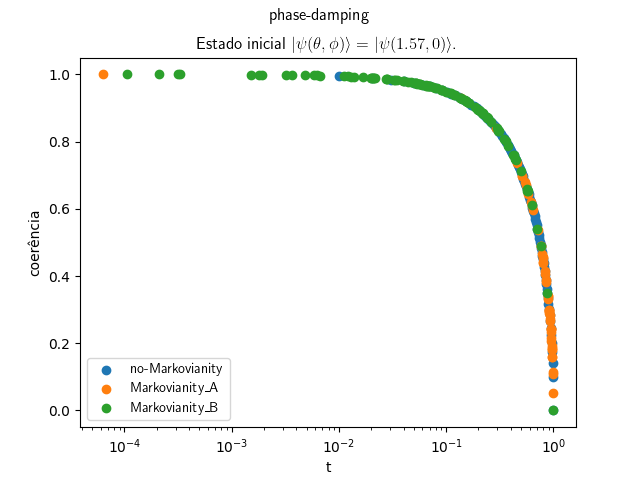
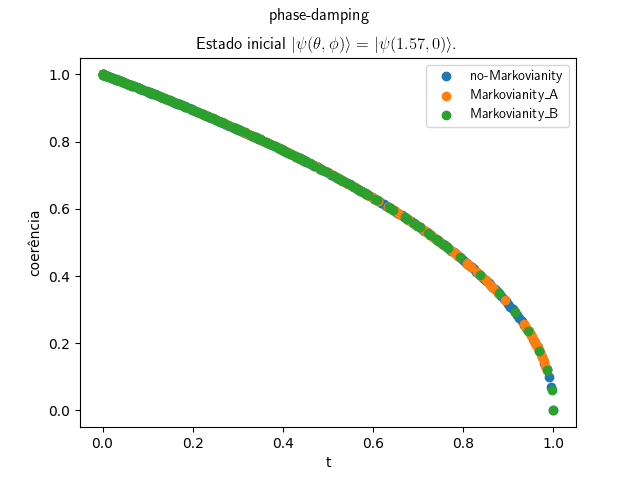
.

diff --git a/src/theoric_channels.py b/src/theoric_channels.py
@@ -313,7 +313,7 @@ class TheoricMaps():
             x = np.linspace(0,2,21)
         for i in li:
             for k in li:
-                self.plot_theoric(x,map,theta=k,phi=i)
+                self.plot_theoric(x1,map,theta=k,phi=i)
         lines = plt.gca().get_lines()
         labels = [line.get_label() for line in lines[:8]]
         plt.legend(labels=labels,loc=1)
@@ -357,7 +357,7 @@ class TheoricMaps():
         #theta = np.pi/2
         #phi = 0
         #return 
-        return abs(np.sin(theta/2)) * abs(np.sqrt(p) * np.exp(1j * phi) + np.sqrt(1 - p) * np.exp(1j * phi))
+        return sqrt(2)*abs(np.sin(theta/2)) * abs(np.sqrt(p) * np.exp(1j * phi) + np.sqrt(1 - p) * np.exp(1j * phi))
         #return 2*sin(theta/2)*cos(theta/2)*sqrt(4*(p**2)*(cos(phi)**2)-4*p*(cos(phi)**2)+1) # bf
     
     def d(self, p, theta, phi):
@@ -386,13 +386,13 @@ class TheoricMaps():
         return (1-p)*np.sin(theta/2)*np.cos(theta/2)*np.sqrt(np.cos(phi)-np.sin(phi))
     
     def l(self, p, theta, phi):
-        return np.sqrt(1-p)*np.sin(np.pi/2)*np.cos(0/2) #'l'
-    
-    def l2(self, p, theta, phi):
         p0 = p
         p1 = (1-p)/2
         p2 = (1-p)/2
         return (2)*(sqrt((p0**2)+(p1**2)+(p2**2)-(p0*p1)-(p0*p2)-(p1*p2)))
+#------------------------------------------------------------------------------------------------------
+    def l2(self, p, theta, phi):
+        return np.sqrt(1-p)*np.sin(np.pi/2)*np.cos(0/2) #'l'
 
     def non_markov_t_Bellomo(self, lamb, t):
         gamma_0 = 2.8
@@ -426,9 +426,9 @@ class TheoricMaps():
         else:
             plt.xlabel('p')
         plt.ylabel('coerência')
-        plt.plot(x,y,label=label)
-        # plt.scatter(x,y,label=label)
-        plt.xscale('log')
+        # plt.plot(x,y,label=label)
+        plt.scatter(x,y,label=label)
+        # plt.xscale('log')
         plt.ylabel('coerência')
         plt.xlabel('t')
         plt.title(m)
@@ -461,7 +461,7 @@ class TheoricMaps():
         #plt.scatter(x1,y);plt.scatter(x,y);plt.xscale('log');plt.title()
         plt.show()
 
-    def plot_pd(self):
+    def plot_ad(self):
         lamb = 0.01
         x1 = np.linspace(0,1,1000)
         z = np.linspace(0.01,300,1000)
@@ -478,41 +478,28 @@ class TheoricMaps():
         # x = [i/max(x) for i in x]
         th = np.pi/2
         ph = 0
-        y1 = self.pd(x1, th, ph)
-        ya = self.pd(xa, th, ph)
-        yb = self.pd(xb, th, ph)
-        self.plot_coh('pd', x1, y1, label='no-Markovianity',theta=th,phi=ph)
+        y1 = self.ad(x1, th, ph)
+        ya = self.ad(xa, th, ph)
+        yb = self.ad(xb, th, ph)
+        self.plot_coh('ad', x1, y1, label='no-Markovianity',theta=th,phi=ph)
         #self.plot_coh('pd', z, ya, label='Markovianity_A',theta=th,phi=ph) #1
         #self.plot_coh('pd', z, yb, label='Markovianity_B',theta=th,phi=ph) #1
-        # self.plot_coh('pd', xa, ya, label='Markovianity_A',theta=th,phi=ph) #2
-        # self.plot_coh('pd', xb, yb, label='Markovianity_B',theta=th,phi=ph) #2
-        self.plot_coh('pd', x1, ya, label='Markovianity_A',theta=th,phi=ph) #3
-        self.plot_coh('pd', x1, yb, label='Markovianity_B',theta=th,phi=ph) #3
+        self.plot_coh('pd', xa, ya, label='Markovianity_A',theta=th,phi=ph) #2
+        self.plot_coh('pd', xb, yb, label='Markovianity_B',theta=th,phi=ph) #2
+        # self.plot_coh('ad', x1, ya, label='Markovianity_A',theta=th,phi=ph) #3
+        # self.plot_coh('ad', x1, yb, label='Markovianity_B',theta=th,phi=ph) #3
         #plt.scatter(x1,y);plt.scatter(x,y);plt.xscale('log');plt.title()
         plt.show()
 
 from numpy import cos, sin, sqrt, pi, exp
-# def non_markov_list_p(lamb,gamma_0,t):
-    # d = sqrt(2*gamma_0*lamb-lamb**2)
-    # result = exp(-lamb*t)*(cos(d*t/2)+(lamb/d)*sin(d*t/2))**2
-    # return result
-# def get_list_p_noMarkov(list_p):
-    # lamb = 0.01
-    # gamma_0 = 2.8
-    # list_p_noMarkov = []
-    # for p in list_p:
-        # list_p_noMarkov.append(non_markov_list_p(lamb,gamma_0,p))
-    # return list_p_noMarkov
-
-
-
 
 
 def main():
     from numpy import cos, sin, sqrt, pi, exp
     a = TheoricMaps()
-    a.plot_pd()
-    sys.exit()
+    # a.plot_pd()
+    # a.plot_ad()
+    # sys.exit()
     #a.print_state()
     #--------- para plotar os mapas para diferentes valores de theta e phi:-------
     # a.plot_all_theoric_space('ad')
@@ -527,75 +514,77 @@ def main():
     
     #--------- para plotar todos os dados salvos com os valores teóricos:---------
     #x = np.linspace(-100,100,21)
-    #x = [0, pi/4, 3*pi/4, pi]
+    ###x = [0, pi/4, 3*pi/4, pi]
     lamb = 0.01
     x1 = np.linspace(0,1,100)
-    z = np.linspace(0.01,300,100)
-    x = np.array([a.non_markov_t_Ana(lamb,i) for i in z])
-    xb = np.array([a.non_markov_t_Bellomo(lamb,i) for i in z])
-    # print(x)
-    #x = get_list_p_noMarkov(x,'Ana')
-    print(type(x1))
-    print(type(x))
-    print(x1)
-    # print(x)
+    x2 = np.linspace(0.01,60,100)
+    xa = np.array([a.non_markov_t_Ana(lamb,i) for i in x2])
+    xb = np.array([a.non_markov_t_Bellomo(lamb,i) for i in x2])
     #x = [i/max(x) for i in x]
-    #x = get_list_p_noMarkov(x,'Bellomo')
-    # x = [i/max(x) for i in x]
+
     th = np.pi/2
-    ph = 0
-    y1 = a.pd(x1, th, ph)
-    y = a.pd(x, th, ph)
-    yb = a.pd(xb, th, ph)
-    a.plot_coh('pd', x1, y1, label='no-Markovianity',theta=th,phi=ph)
-    a.plot_coh('pd', z, y, label='Markovianity_A',theta=th,phi=ph)
-    a.plot_coh('pd', z, yb, label='Markovianity_B',theta=th,phi=ph)
-    #plt.scatter(x1,y);plt.scatter(x,y);plt.xscale('log');plt.title()
+    ph = np.pi/2
+    y1 = a.bpf(x1, th, ph)
+    ya = a.bpf(xa, th, ph)
+    yb = a.bpf(xb, th, ph)
+    a.plot_coh('bpf', x1, y1, label='no-Markovianity',theta=th,phi=ph)
+    # a.plot_coh('pd', xa, ya, label='Markovianity_A',theta=th,phi=ph) #2
+    # a.plot_coh('pd', xb, yb, label='Markovianity_B',theta=th,phi=ph) #2
+    #a.plot_coh('bpf', x2, ya, label='Markovianity_A',theta=th,phi=ph) #3
+    #a.plot_coh('bpf', x2, yb, label='Markovianity_B',theta=th,phi=ph) #3
+    # a.plot_coh('pd', x1, ya, label='Markovianity_A',theta=th,phi=ph) #1
+    # a.plot_coh('pd', x1, yb, label='Markovianity_B',theta=th,phi=ph) #1
     plt.show()
+
     sys.exit()
 
-    a.plot_storaged('adg',False)
-    a.plot_theoric(x,'adg',theta=pi/2,phi=0)
+    a.plot_storaged('adg',True)
+    a.plot_theoric(x1,'adg',theta=pi/2,phi=0)
     plt.legend(loc=1)
     plt.show()
 
-    a.plot_storaged('ad',False)
-    a.plot_theoric(x,'ad',theta=pi/2,phi=0)
+    a.plot_storaged('ad',True)
+    a.plot_theoric(x1,'ad',theta=pi/2,phi=0)
     plt.legend(loc=1)
     plt.show()
 
-    a.plot_storaged('pf',False)
-    a.plot_theoric(x,'pf',theta=pi/2,phi=0)
+    a.plot_storaged('pf',True)
+    a.plot_theoric(x1,'pf',theta=pi/2,phi=0)
     plt.legend(loc=1)
     plt.show()
 
-    a.plot_storaged('bf',False)
-    a.plot_theoric(x,'bf',theta=pi/2,phi=pi/2)
+    a.plot_storaged('pd',False)
+    a.plot_theoric(x1,'pd',theta=pi/2,phi=0)
     plt.legend(loc=1)
     plt.show()
 
-    a.plot_storaged('bpf',False)
-    a.plot_theoric(x,'bpf',theta=pi/2,phi=0.0)
+    a.plot_storaged('bf',True)
+    a.plot_theoric(x1,'bf',theta=pi/2,phi=pi/2)
     plt.legend(loc=1)
     plt.show()
 
-    a.plot_storaged('d',False)
-    a.plot_theoric(x,'d',theta=pi/2,phi=0)
+    a.plot_storaged('bpf',True)
+    a.plot_theoric(x1,'bpf',theta=pi/2,phi=0.0)
     plt.legend(loc=1)
     plt.show()
 
-    a.plot_storaged('l',False)
-    a.plot_theoric(x,'l',theta=pi/2,phi=0)
+    a.plot_storaged('d',True)
+    a.plot_theoric(x1,'d',theta=pi/2,phi=0)
     plt.legend(loc=1)
     plt.show()
 
-    a.plot_storaged('adg',False)
-    a.plot_theoric(x,'adg',theta=pi/2,phi=0)
+    a.plot_storaged('l',True)
+    a.plot_theoric(x1,'l',theta=pi/2,phi=0)
+    plt.legend(loc=1)
+    plt.show()
+
+    a.plot_storaged('adg',True)
+    a.plot_theoric(x1,'adg',theta=pi/2,phi=0)
     plt.legend(loc=1)
     plt.show()
 # 
-    a.plot_storaged('hw',False)
-    a.plot_theoric(x,'hw',theta=pi/2,phi=0)
+    a.plot_storaged('hw',True)
+    a.plot_theoric(x1,'hw',theta=pi/2,phi=0)
     plt.legend(loc=1)
     plt.show()
     #-----------------------------------------------------------------------------

diff --git a/src/simulation_with_save.py b/src/simulation_with_save.py
@@ -440,15 +440,15 @@ def main():
     epochs = 1
     step_to_start = 1
     markovianity = True
-    rho_AB = QCH.rho_AB_l
+    rho_AB = QCH.rho_AB_pd
     
-    S = Simulate('bpf', n_qubits, d_rho_A, list_p, epochs, step_to_start, rho_AB)
-    rho = np.array(S.reload_rho('ad', markovianity))
+    S = Simulate('pd', n_qubits, d_rho_A, list_p, epochs, step_to_start, rho_AB)
+    #rho = np.array(S.reload_rho('pd', markovianity))
     #S.plot_bloch(rho)
-    print(rho)
-    sys.exit()
+    #print(rho)
+    #sys.exit()
 
-    S.run_calcs_noMarkov(False, pi/2, 0)
+    S.run_calcs_noMarkov(True, pi/2, 0)
     #S.run_calcs(True, pi/2, 0)
     
     #phis = [0,pi,pi/1.5,pi/2,pi/3,pi/4,pi/5]
